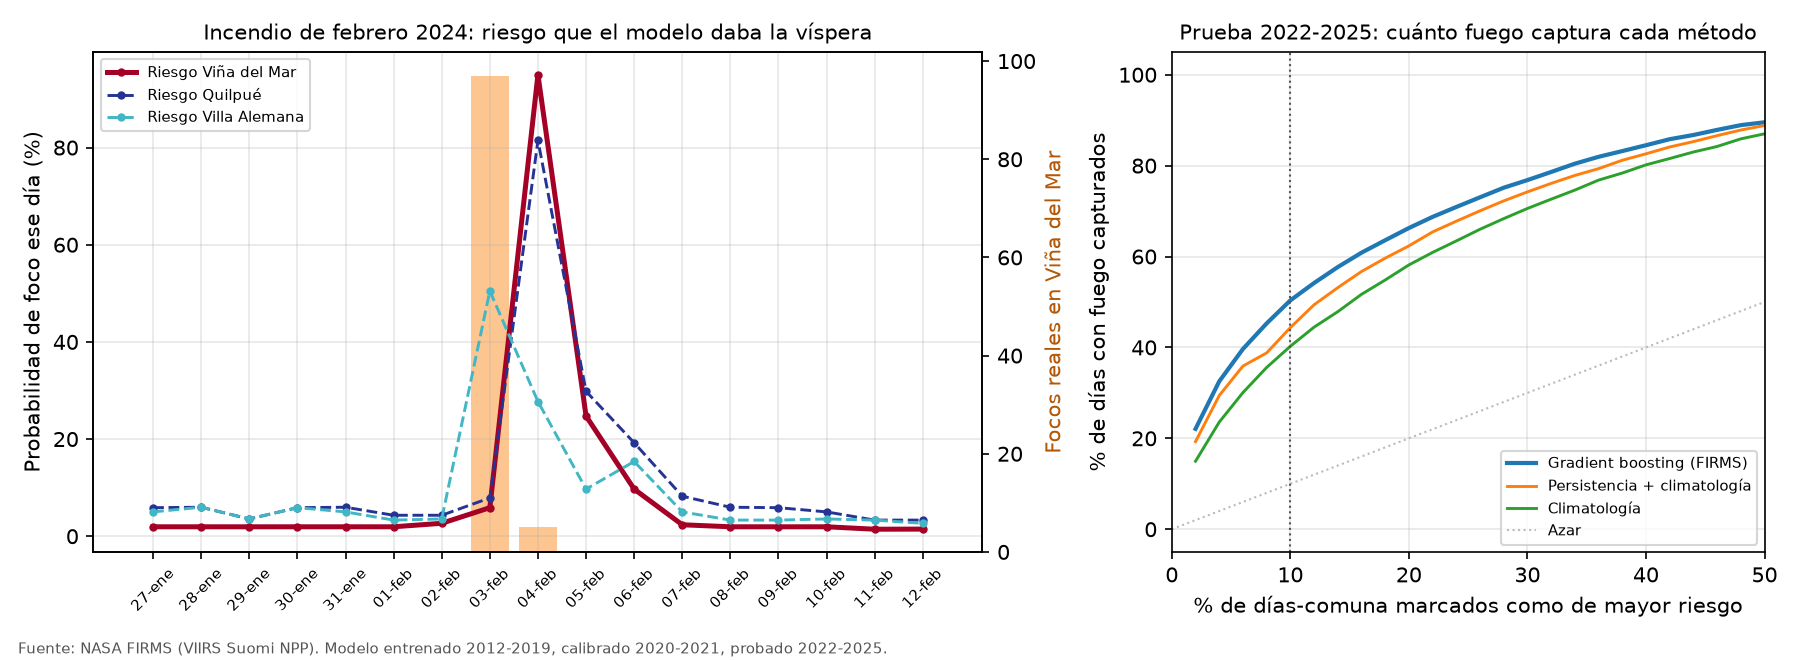
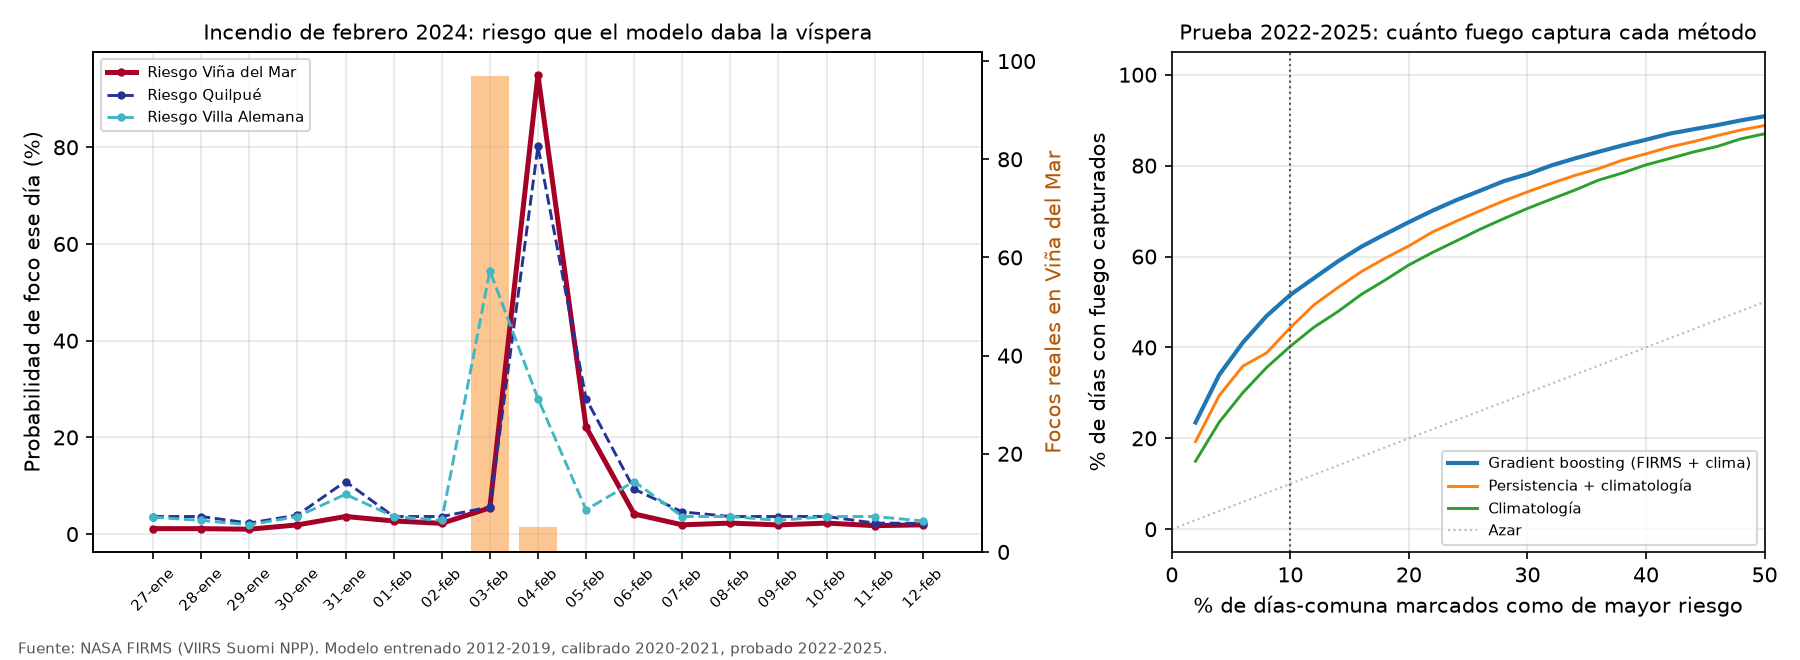
Riesgo con clima de NASA POWER: modelo hgb_firms_clima_v1
Con el clima diario por comuna (paso 5b de David) el modelo con FIRMS + clima gana en calibracion y queda como publicado. Prueba 2022-2025: AUC 0,827 -> 0,837, precision media 0,253 -> 0,271, captura del 10 % de mayor riesgo 50 % -> 52 %; nivel muy alto acierta 45 % y cubre 22 %. La lluvia es la variable de clima que mas pesa. El texto del caso Vina se ajusta segun si el modelo usa clima. Actualiza el reporte, decisiones, README y la guia del equipo.

diff --git a/scripts/08_riesgo.py b/scripts/08_riesgo.py
@@ -344,8 +344,12 @@ def main() -> int:
         "mayoría de las igniciones son humanas.",
         f"- **Caso Viña del Mar:** la víspera del 3 de febrero de 2024, con el fuego todavía en comunas vecinas, el "
         f"modelo subió el riesgo de Viña de {antes:.1f} % a **{vispera:.1f} %** (nivel `{nivel_vispera}`), pero no lo "
-        "marcó como alto. Anticipar el salto de un incendio a otra comuna con solo datos de focos es difícil; es "
-        "donde el viento y la humedad (bloque de clima) pueden aportar.",
+        "marcó como alto. "
+        + ("Ni siquiera con el clima de ese día (calor, baja humedad y viento) anticipa el salto de un incendio a "
+           "otra comuna: el clima eleva el riesgo de toda la zona, no dice hacia dónde avanza el fuego."
+           if "clima" in bloques else
+           "Anticipar el salto de un incendio a otra comuna con solo datos de focos es difícil; es donde el viento y "
+           "la humedad (bloque de clima) pueden aportar."),
         "",
         "![Caso Viña del Mar y captura por método](figuras/riesgo_vina_2024.png)",
         "",

diff --git a/docs/riesgo.md b/docs/riesgo.md
@@ -1,13 +1,13 @@
 # Riesgo de focos a 24-48 h por comuna
-_Generado por `scripts/08_riesgo.py` el 2026-11-14 18:48 UTC. No editar a mano: se regenera._
+_Generado por `scripts/08_riesgo.py` el 2026-11-14 19:57 UTC. No editar a mano: se regenera._
 
 ## Resumen
 - **Pregunta:** ¿habrá al menos un foco VIIRS (Suomi NPP) en la comuna mañana? Unidad: comuna × día (1 753 635 filas). Tasa base en prueba: 3.6 %.
-- **Bloques de variables usados:** FIRMS. Modelo elegido: **Gradient boosting (FIRMS)** (`hgb_firms_v1`), por precisión media en el período de calibración.
-- **Prueba 2022-2025 (nunca vista al entrenar):** AUC **0.827**, precisión media **0.253** (la tasa base es 0.036), el 10 % de días-comuna de mayor riesgo captura el **50 %** de los días con fuego (lift ×5.0).
+- **Bloques de variables usados:** FIRMS, clima. Modelo elegido: **Gradient boosting (FIRMS + clima)** (`hgb_firms_clima_v1`), por precisión media en el período de calibración.
+- **Prueba 2022-2025 (nunca vista al entrenar):** AUC **0.837**, precisión media **0.271** (la tasa base es 0.036), el 10 % de días-comuna de mayor riesgo captura el **52 %** de los días con fuego (lift ×5.2).
 - **Supera a las líneas base** (climatología AUC 0.789, persistencia 0.811). La regresión logística rinde casi igual (AUC 0.832): la ganancia viene de las variables, no de la complejidad del modelo. Se usa gradient boosting porque admite nuevos bloques (clima, vegetación) sin rediseñar.
-- **Límite honesto:** sus alertas (nivel alto o muy alto) **sirven para priorizar, no para anticipar todo**. En comunas **con fuego reciente** acertaron el **30 %** de las veces (tasa base 16 %) y cubrieron el 75 % de los días con fuego. En comunas **sin fuego reciente** acertaron el **14 %** (6 veces la tasa base de 2.4 %), pero el **81 %** de los incendios nuevos empezó sin alerta. La mayoría de las igniciones son humanas.
-- **Caso Viña del Mar:** la víspera del 3 de febrero de 2024, con el fuego todavía en comunas vecinas, el modelo subió el riesgo de Viña de 1.9 % a **5.9 %** (nivel `medio`), pero no lo marcó como alto. Anticipar el salto de un incendio a otra comuna con solo datos de focos es difícil; es donde el viento y la humedad (bloque de clima) pueden aportar.
+- **Límite honesto:** sus alertas (nivel alto o muy alto) **sirven para priorizar, no para anticipar todo**. En comunas **con fuego reciente** acertaron el **32 %** de las veces (tasa base 16 %) y cubrieron el 75 % de los días con fuego. En comunas **sin fuego reciente** acertaron el **15 %** (6 veces la tasa base de 2.4 %), pero el **80 %** de los incendios nuevos empezó sin alerta. La mayoría de las igniciones son humanas.
+- **Caso Viña del Mar:** la víspera del 3 de febrero de 2024, con el fuego todavía en comunas vecinas, el modelo subió el riesgo de Viña de 2.7 % a **5.4 %** (nivel `medio`), pero no lo marcó como alto. Ni siquiera con el clima de ese día (calor, baja humedad y viento) anticipa el salto de un incendio a otra comuna: el clima eleva el riesgo de toda la zona, no dice hacia dónde avanza el fuego.
 
 ![Caso Viña del Mar y captura por método](figuras/riesgo_vina_2024.png)
 
@@ -20,13 +20,14 @@ Entrenamiento 2012-02 a 2019-12; calibración de probabilidades (isotónica) 202
 | Persistencia + climatología | 0.811 | 0.204 | 0.444 | 4.435 | — | 0.036 |
 | Regresión logística (FIRMS) | 0.832 | 0.254 | 0.496 | 4.962 | 0.030 | 0.036 |
 | Gradient boosting (FIRMS) | 0.827 | 0.253 | 0.503 | 5.035 | 0.030 | 0.036 |
+| Gradient boosting (FIRMS + clima) | 0.837 | 0.271 | 0.516 | 5.157 | 0.030 | 0.036 |
 
 ## 2. Ignición vs. propagación (prueba 2022-2025)
 
 |  | AUC | Precisión media | Captura top 10 % | Tasa base |
 |---|---|---|---|---|
-| Gradient boosting (FIRMS) / ignición | 0.783 | 0.093 | 0.391 | 0.024 |
-| Gradient boosting (FIRMS) / propagación | 0.775 | 0.461 | 0.332 | 0.164 |
+| Gradient boosting (FIRMS + clima) / ignición | 0.796 | 0.105 | 0.409 | 0.024 |
+| Gradient boosting (FIRMS + clima) / propagación | 0.790 | 0.488 | 0.347 | 0.164 |
 | Climatología / ignición | 0.758 | 0.074 | 0.329 | 0.024 |
 | Climatología / propagación | 0.696 | 0.319 | 0.244 | 0.164 |
 | Persistencia + climatología / ignición | 0.758 | 0.074 | 0.329 | 0.024 |
@@ -36,14 +37,14 @@ Alertas del modelo elegido (nivel alto o muy alto, probabilidad ≥ 12 %):
 
 | Segmento | Días-comuna | Alertas (alto o muy alto) | % de alertas con fuego | % del fuego que tuvo alerta | Tasa base (%) |
 |---|---|---|---|---|---|
-| propagación | 43 045 | 17 797 | 29.9 | 75.3 | 16.4 |
-| ignición | 460 655 | 15 165 | 14.0 | 19.5 | 2.4 |
+| propagación | 43 045 | 16 636 | 31.7 | 74.7 | 16.4 |
+| ignición | 460 655 | 14 422 | 15.3 | 20.3 | 2.4 |
 
 ## 3. Horizonte de 48 h
 
 |  | AUC | Precisión media | Captura top 10 % | Lift top 10 % | Brier | Tasa base |
 |---|---|---|---|---|---|---|
-| Gradient boosting 48 h | 0.814 | 0.298 | 0.440 | 4.399 | 0.050 | 0.062 |
+| Gradient boosting 48 h | 0.821 | 0.317 | 0.450 | 4.499 | 0.050 | 0.062 |
 | Climatología 48 h | 0.784 | 0.225 | 0.372 | 3.723 | 0.054 | 0.062 |
 
 ## 4. Calibración (prueba 2022-2025)
@@ -51,61 +52,67 @@ Si la probabilidad está bien calibrada, lo predicho y lo observado coinciden en
 
 |  | predicho | observado | n |
 |---|---|---|---|
-| decil 1 | 0.002 | 0.003 | 50 370 |
-| decil 2 | 0.003 | 0.002 | 50 370 |
-| decil 3 | 0.008 | 0.007 | 50 370 |
-| decil 4 | 0.010 | 0.010 | 50 370 |
-| decil 5 | 0.014 | 0.015 | 50 370 |
+| decil 1 | 0.001 | 0.003 | 50 370 |
+| decil 2 | 0.002 | 0.002 | 50 370 |
+| decil 3 | 0.006 | 0.005 | 50 370 |
+| decil 4 | 0.009 | 0.009 | 50 370 |
+| decil 5 | 0.013 | 0.015 | 50 370 |
 | decil 6 | 0.020 | 0.018 | 50 370 |
 | decil 7 | 0.028 | 0.027 | 50 370 |
-| decil 8 | 0.040 | 0.038 | 50 370 |
-| decil 9 | 0.064 | 0.057 | 50 370 |
-| decil 10 | 0.200 | 0.179 | 50 370 |
+| decil 8 | 0.039 | 0.038 | 50 370 |
+| decil 9 | 0.065 | 0.058 | 50 370 |
+| decil 10 | 0.209 | 0.182 | 50 370 |
 
 ## 5. Qué variables pesan
 Caída de la precisión media al desordenar cada variable (muestra de la prueba).
 
 | Variable | Caída de precisión media |
 |---|---|
-| clim_comuna_mes | 0.1239 |
-| frp_hoy | 0.0333 |
-| dias_desde_ultimo | 0.0194 |
-| lat | 0.0134 |
-| n_hoy | 0.0129 |
-| n_7d | 0.0119 |
-| vecinos_hoy | 0.0103 |
-| doy_cos | 0.0055 |
-| dia_semana | 0.0031 |
-| lon | 0.0027 |
-| area_km2 | 0.0023 |
-| n_3d | 0.0018 |
-| n_30d | 0.0014 |
-| clim_comuna | 0.0001 |
-| mes | -0.0011 |
-| vecinos_3d | -0.0021 |
-| doy_sin | -0.0036 |
+| clim_comuna_mes | 0.1434 |
+| frp_hoy | 0.0300 |
+| precip | 0.0264 |
+| lat | 0.0149 |
+| dias_desde_ultimo | 0.0147 |
+| n_7d | 0.0125 |
+| hrmin | 0.0114 |
+| n_hoy | 0.0089 |
+| tmax | 0.0068 |
+| doy_cos | 0.0051 |
+| vecinos_hoy | 0.0048 |
+| viento_max | 0.0042 |
+| lon | 0.0041 |
+| n_30d | 0.0035 |
+| dias_sin_lluvia | 0.0027 |
+| n_3d | 0.0026 |
+| area_km2 | 0.0022 |
+| dia_semana | 0.0017 |
+| precip_7d | 0.0011 |
+| mes | -0.0000 |
+| clim_comuna | -0.0002 |
+| vecinos_3d | -0.0017 |
+| doy_sin | -0.0018 |
 
 ## 6. Caso Viña del Mar, febrero de 2024
 
 | Día | Riesgo predicho la víspera (%) | Nivel | Focos reales |
 |---|---|---|---|
-| 2024-01-27 | 1.9 | bajo | 0.0 |
-| 2024-01-28 | 1.9 | bajo | 0.0 |
-| 2024-01-29 | 1.9 | bajo | 0.0 |
+| 2024-01-27 | 1.1 | bajo | 0.0 |
+| 2024-01-28 | 1.1 | bajo | 0.0 |
+| 2024-01-29 | 1.0 | bajo | 0.0 |
 | 2024-01-30 | 1.9 | bajo | 0.0 |
-| 2024-01-31 | 1.9 | bajo | 0.0 |
-| 2024-02-01 | 1.9 | bajo | 0.0 |
-| 2024-02-02 | 2.7 | bajo | 0.0 |
-| 2024-02-03 | 5.9 | medio | 97.0 |
+| 2024-01-31 | 3.6 | bajo | 0.0 |
+| 2024-02-01 | 2.7 | bajo | 0.0 |
+| 2024-02-02 | 2.2 | bajo | 0.0 |
+| 2024-02-03 | 5.4 | medio | 97.0 |
 | 2024-02-04 | 95.0 | muy_alto | 5.0 |
-| 2024-02-05 | 24.7 | alto | 0.0 |
-| 2024-02-06 | 9.7 | medio | 0.0 |
-| 2024-02-07 | 2.4 | bajo | 0.0 |
-| 2024-02-08 | 1.9 | bajo | 0.0 |
+| 2024-02-05 | 22.1 | alto | 0.0 |
+| 2024-02-06 | 4.2 | medio | 0.0 |
+| 2024-02-07 | 1.9 | bajo | 0.0 |
+| 2024-02-08 | 2.3 | bajo | 0.0 |
 | 2024-02-09 | 1.9 | bajo | 0.0 |
-| 2024-02-10 | 1.9 | bajo | 0.0 |
-| 2024-02-11 | 1.4 | bajo | 0.0 |
-| 2024-02-12 | 1.5 | bajo | 0.0 |
+| 2024-02-10 | 2.3 | bajo | 0.0 |
+| 2024-02-11 | 1.7 | bajo | 0.0 |
+| 2024-02-12 | 1.9 | bajo | 0.0 |
 
 ## 7. Niveles y salidas
 - Niveles por probabilidad: `bajo` < 4 % (≈ tasa base) ≤ `medio` < 12 % ≤ `alto` < 30 % ≤ `muy_alto`.

diff --git a/docs/trabajo_en_equipo.md b/docs/trabajo_en_equipo.md
@@ -199,7 +199,7 @@ el mes en curso en la demo. Extender el período del contrato a 2026 requiere av
 |---|---|---|
 | A1 · Armonización ✅ **lista** (14-11): factor único calibrado en 2012-2017, validado fuera de muestra con 2016-2017 | `serie_mensual.parquet` definitiva + [`docs/armonizacion.md`](armonizacion.md) | Ya: es la entrada de B2 |
 | A2 · Eventos ✅ **lista** (14-11): agrupar focos en incendios no iguala los sensores (razón 3,2 → 2,3); la diferencia es sobre todo sensibilidad a incendios chicos | Cifras para el pitch en [`docs/eventos.md`](eventos.md) | No la necesita |
-| A3 · Riesgo a 24-48 h ✅ **versión base lista** (14-11), solo con FIRMS; el clima de B5 se suma solo cuando exista `data/interim/clima_diario.parquet` | `riesgo.parquet` + `metricas.json` (corre `scripts/08_riesgo.py`) + [`docs/riesgo.md`](riesgo.md) | Ya: B3 puede exportarlos |
+| A3 · Riesgo a 24-48 h ✅ **listo con clima** (14-11): `hgb_firms_clima_v1`, AUC 0,837 en 2022-2025; necesita `data/interim/clima_diario.parquet` (paso 5b o Drive del equipo) | `riesgo.parquet` + `metricas.json` (corre `scripts/08_riesgo.py`) + [`docs/riesgo.md`](riesgo.md) | Ya: B3 puede exportarlos |
 | A4 · Cifras y gráficos para el pitch | `docs/` | — |
 
 ## 8. Reglas de trabajo

diff --git a/docs/decisiones.md b/docs/decisiones.md
@@ -4,6 +4,13 @@ Registro corto de qué se decidió, cuándo y por qué. Lo nuevo va arriba.
 
 ## 2026-11-14
 
+- **Riesgo con clima (NASA POWER, B5 de David):** se suma el bloque de clima (temperatura máxima, humedad mínima
+  aproximada, viento, lluvia, lluvia de 7 días y días sin llover). Ganó en el período de calibración y queda como
+  modelo publicado: `hgb_firms_clima_v1`. En prueba 2022-2025: AUC 0,827 → **0,837**, precisión media 0,253 →
+  **0,271**, captura del 10 % de mayor riesgo 50 % → **52 %**; en nivel muy alto acierta 45 % (antes 44 %) y cubre
+  22 % (antes 19 %). Mejora modesta pero en todas las métricas y segmentos; la lluvia es la variable de clima que más
+  pesa. No anticipa el salto del incendio de Viña 2024 a otra comuna: el clima eleva el riesgo de la zona, no indica
+  hacia dónde avanza el fuego.
 - **Riesgo (A3), versión base:** comuna × día, objetivo = foco Suomi NPP al día siguiente. Entrena 2012-2019, calibra
   2020-2021, prueba 2022-2025. Gradient boosting con variables FIRMS: AUC 0,827 (climatología 0,789, persistencia
   0,811; regresión logística 0,832, prácticamente igual). El 10 % de mayor riesgo captura el 50 % de los días con

diff --git a/README.md b/README.md
@@ -83,7 +83,7 @@ A = back, ciencia de datos · B = back, producto de datos (ver [roles](docs/trab
 | 5b. Clima diario por comuna (NASA POWER) | `scripts/05b_clima_diario.py`, `firecal.ingest.clima` | B | Listo (PR #2) |
 | 6. Agrupar focos en incendios | `scripts/06_eventos.py`, `firecal.events` | A | Listo ([reporte](docs/eventos.md)) |
 | 7. Calendario y anomalías | `scripts/07_calendario.py`, `firecal.anomalies` | B | Listo (PR #1) |
-| 8. Riesgo 24-48 h | `scripts/08_riesgo.py`, `firecal.model` | A | Base con FIRMS lista ([reporte](docs/riesgo.md)); falta reentrenar con el clima del paso 5b y comparar |
+| 8. Riesgo 24-48 h | `scripts/08_riesgo.py`, `firecal.model` | A | Listo con FIRMS + clima: `hgb_firms_clima_v1`, AUC 0,837 en 2022-2025 ([reporte](docs/riesgo.md)) |
 | 9. Exportar al contrato | `scripts/09_exportar.py`, `firecal.export` | B | Listo (PR #1); la portada `index.html` va en el PR #3 |
 | 10. Publicar en GitHub Pages | `scripts/10_publicar.py`, `firecal.export.publicar` | B | Listo (PR #1); datos reales publicados el 14-11 |
 
